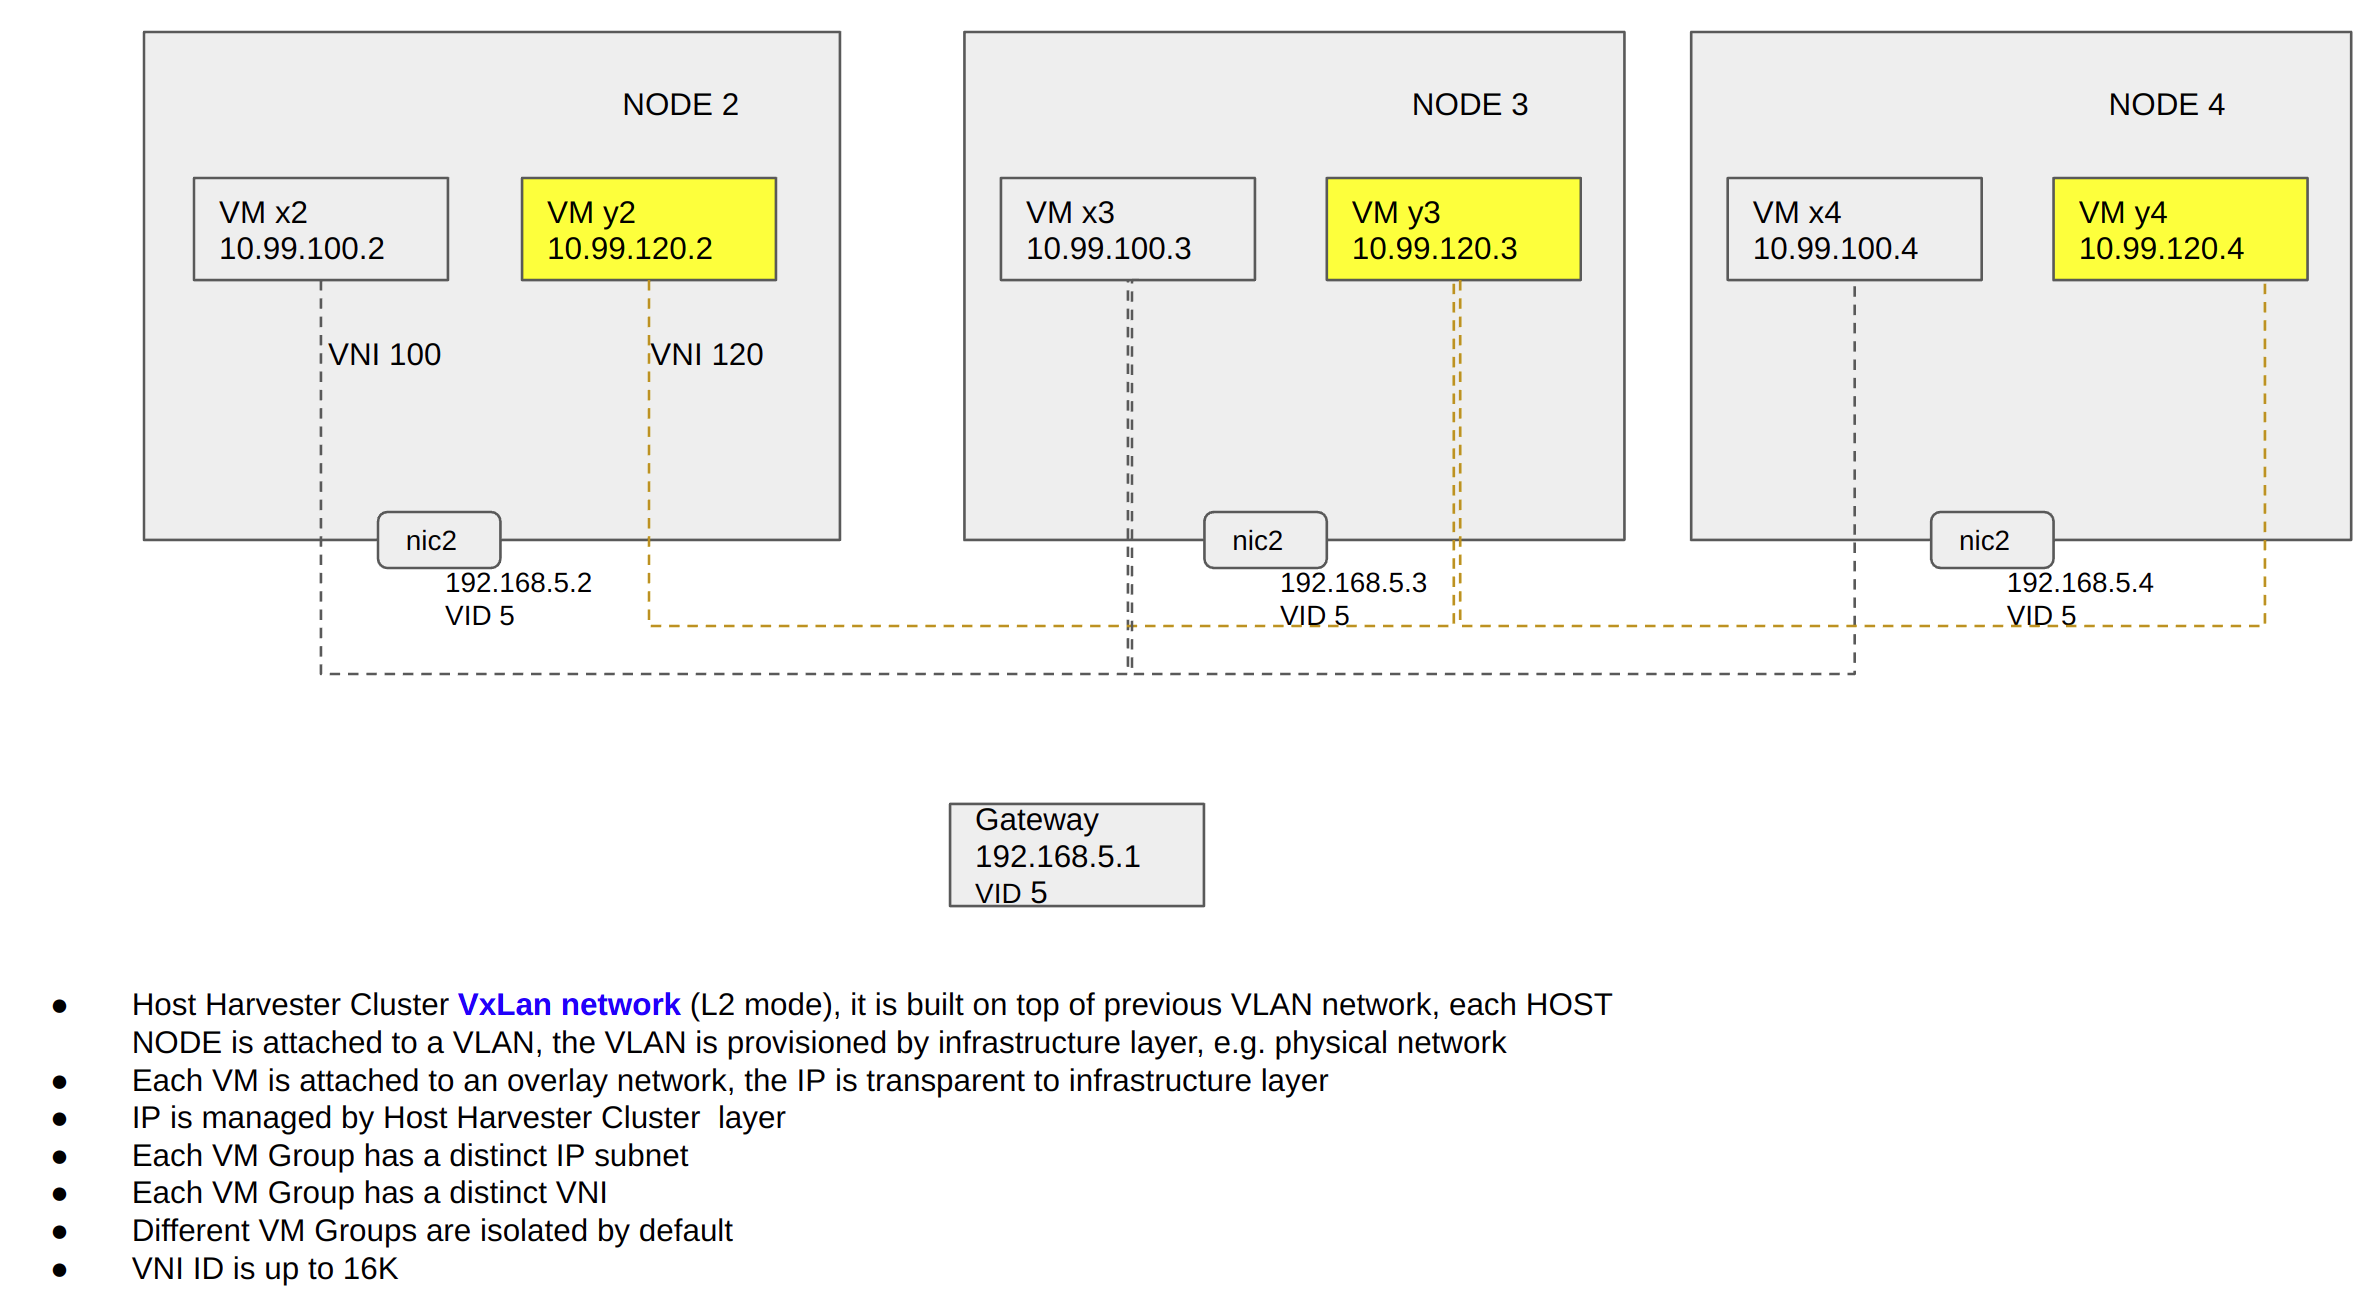
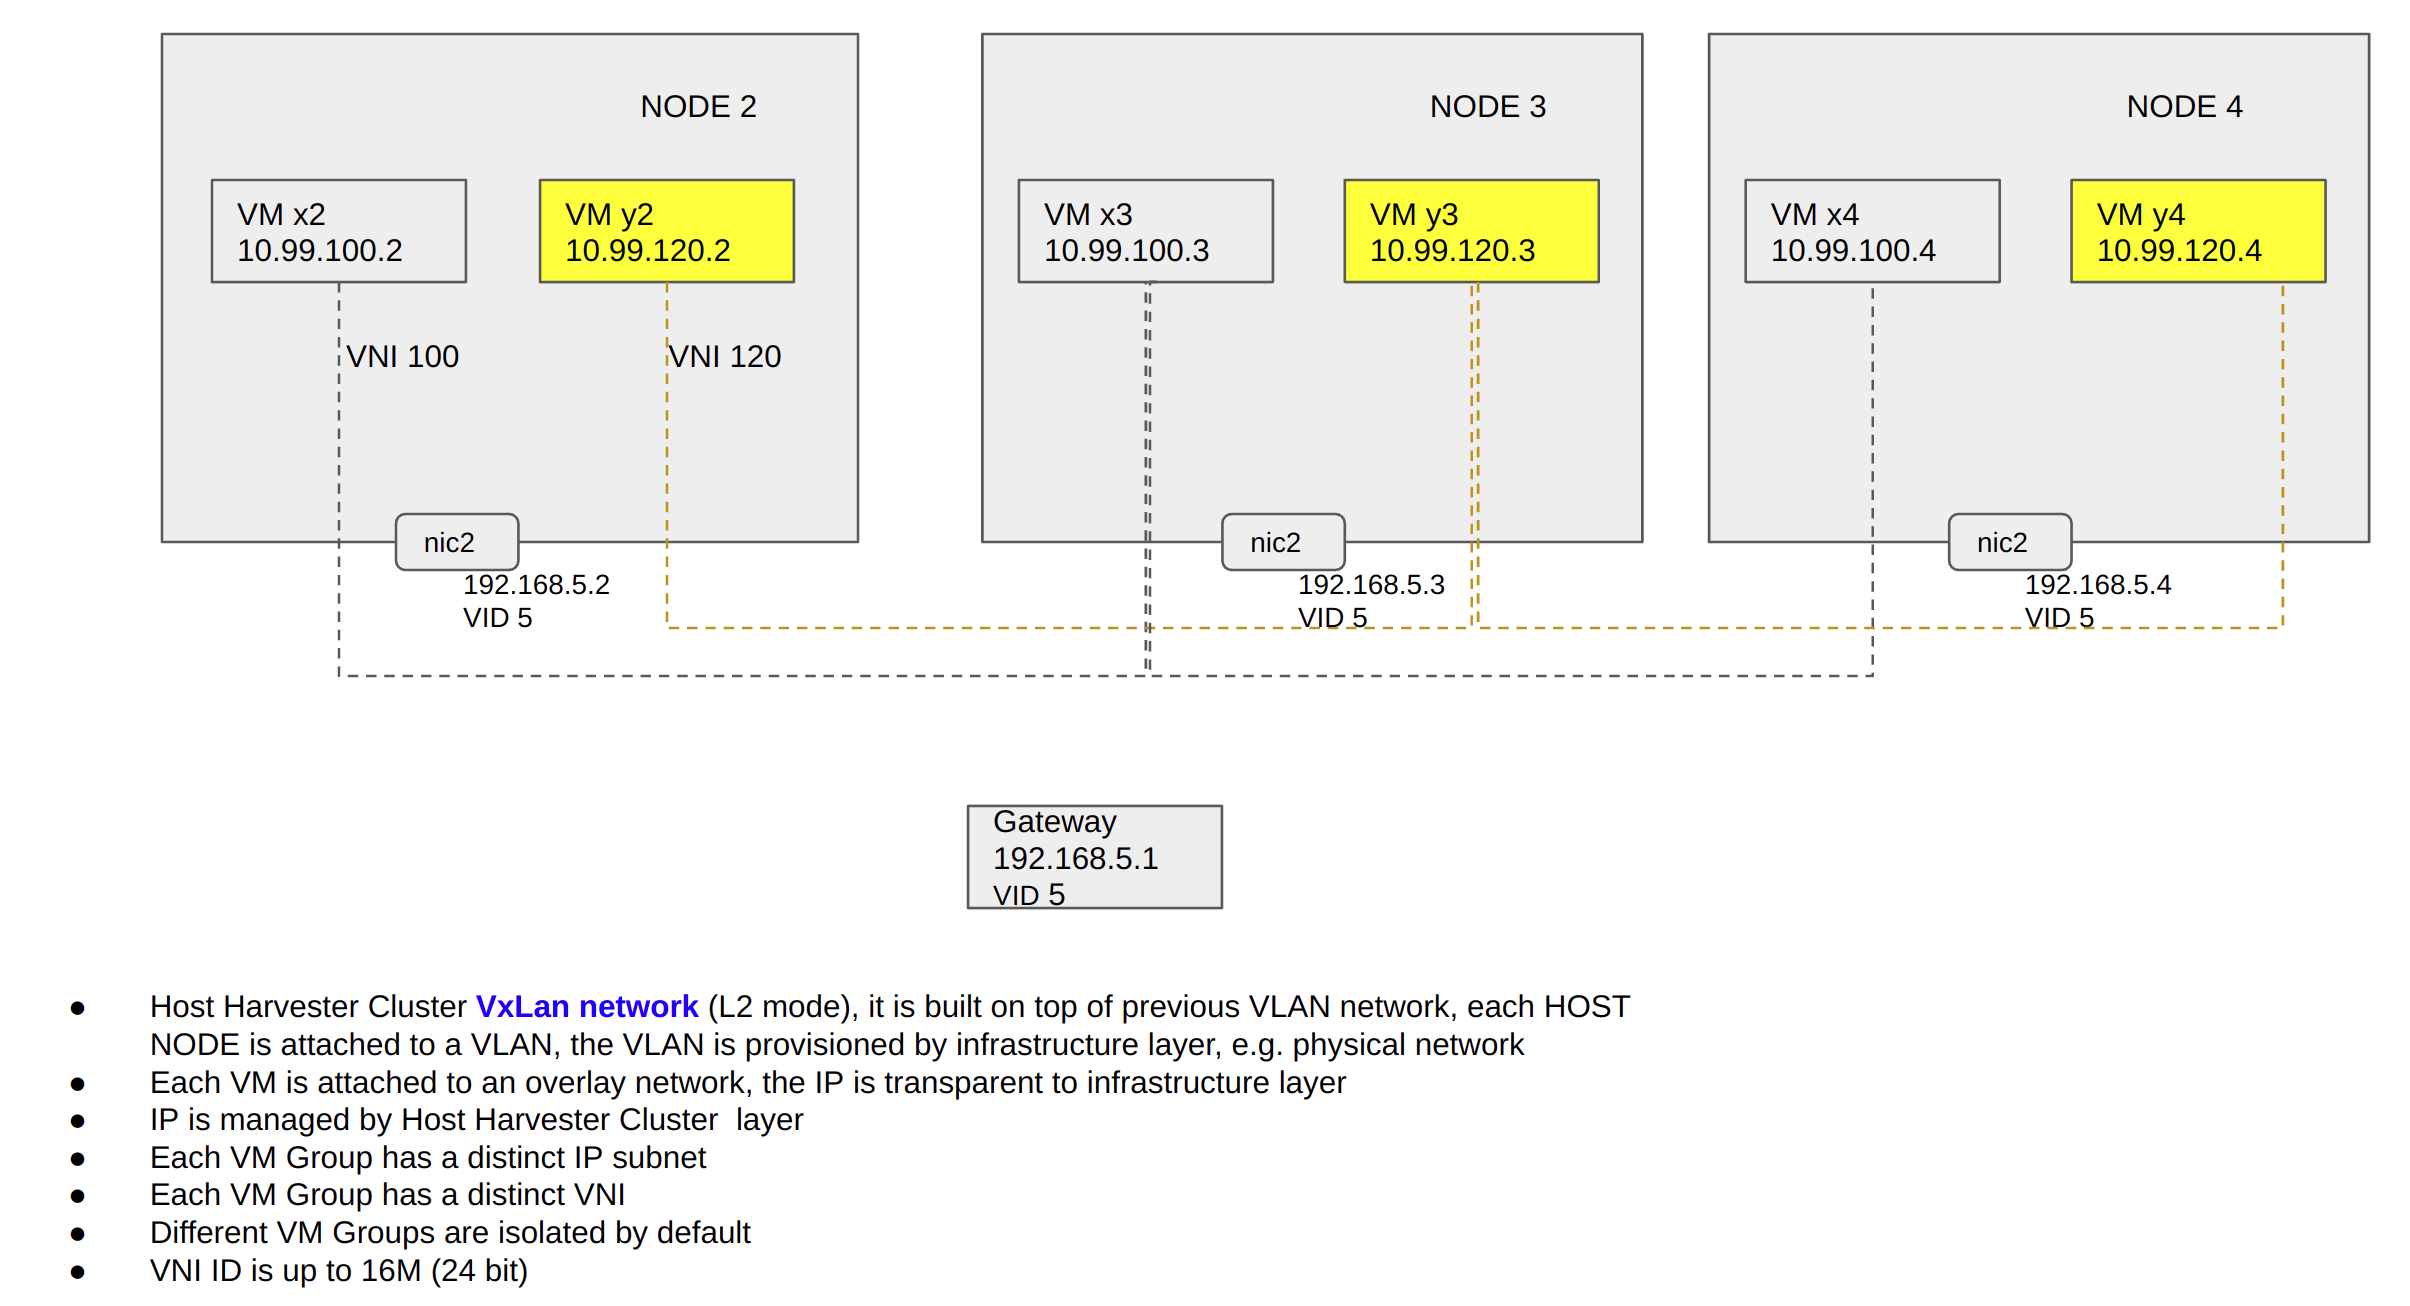
update typo

diff --git a/enhancements/20220530-vxlan-enhancement.md b/enhancements/20220530-vxlan-enhancement.md
@@ -70,7 +70,7 @@ With the enhancement of Harvester VLAN network, user can deploy up to 4K isolate
 
 Add VXLAN network with adding the following advanced features:
 
-  (3) Support up to 16K isolated `VM Group` in one `Host Harvester Cluster`, VM in different group can not communicate with each other direclty.
+  (3) Support up to 16M isolated `VM Group` in one `Host Harvester Cluster`, VM in different group can not communicate with each other direclty.
 
   (3) Support VM live migration and persistent IP address, VM can freely migrate/move in the cluster without change of IP address. 
 
@@ -233,7 +233,7 @@ https://rancher.com/docs/rancher/v2.6/en/cluster-admin/cluster-access/kubectl/
 
 #### Story 9
 
-Guest Kubernetes Cluster VIP/LP and communication with outside
+Guest Kubernetes Cluster VIP/LB and communication with outside
 
 
 ##### How VLAN network handle
